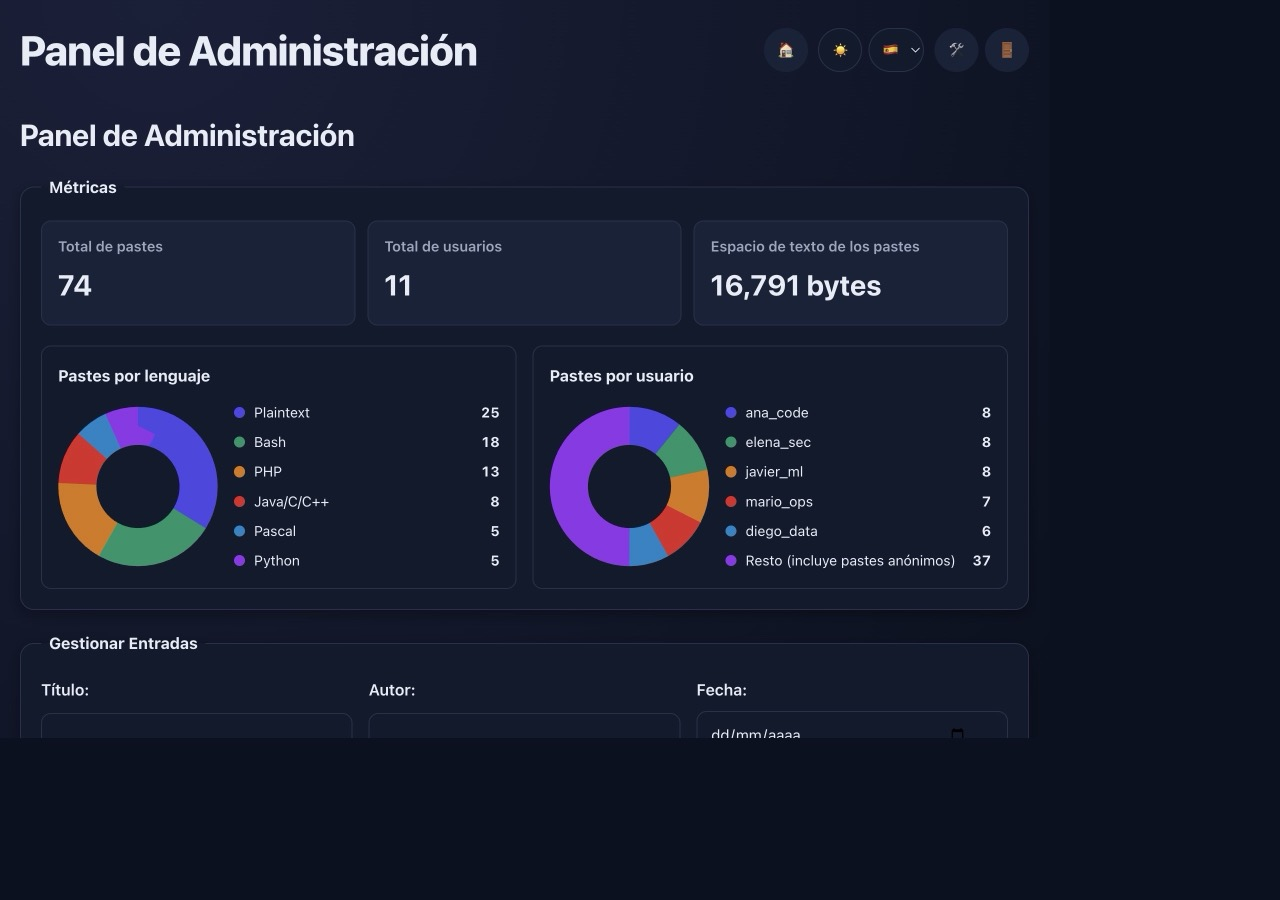
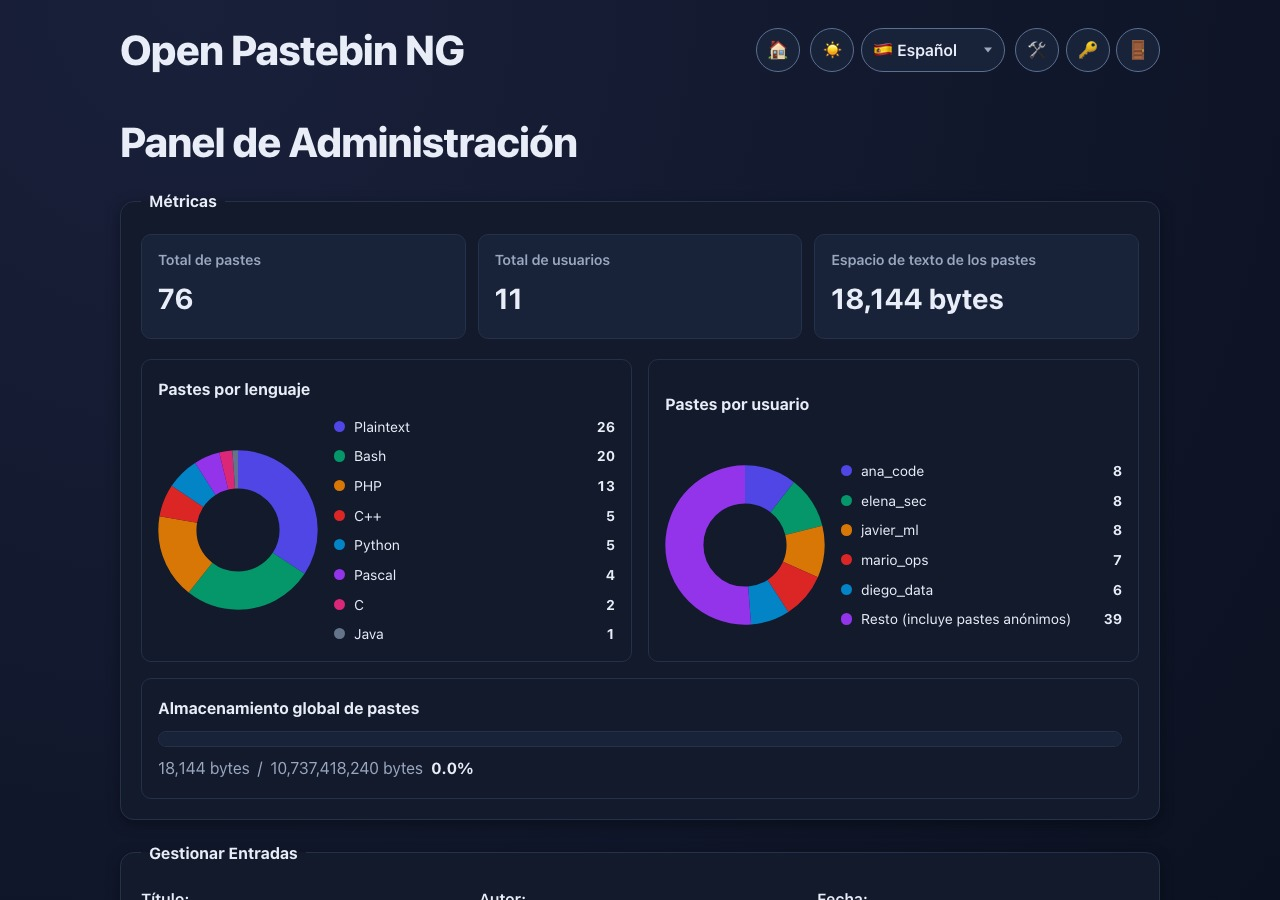
docs(release): publish v1.1.0 documentation and screenshots
Bumps OPNG_VERSION to 1.1.0, marks the changelog as released, documents the GitHub Pages site, refreshes the five interface screenshots and aligns deployment examples with the 1.1.0 artifacts.

diff --git a/src/includes/version.php b/src/includes/version.php
@@ -10,5 +10,5 @@ declare(strict_types=1);
 // version is no longer duplicated in templates.
 
 if (!defined('OPNG_VERSION')) {
-    define('OPNG_VERSION', '1.0.0');
+    define('OPNG_VERSION', '1.1.0');
 }

diff --git a/README.md b/README.md
@@ -5,9 +5,11 @@
 This project is based on **[Open Pastebin](http://sourceforge.net/projects/openpastebin/)**. All you need is a **web server with PHP and MySQL**.
 Open Pastebin NG is **free software** released under the **[GNU GPL license](LICENSE)**.
 
-⚠ **Open Pastebin NG v1.0.0 is the first stable release.** Back up your database and review [`docs/UPGRADING.md`](docs/UPGRADING.md) before upgrading from 0.9.x.
+⚠ **Open Pastebin NG v1.1.0 is the current stable release.** Back up your database and review [`docs/UPGRADING.md`](docs/UPGRADING.md) before upgrading from 1.0.x or 0.9.x.
 
-**Current version:** `1.0.0` (see [`src/includes/version.php`](src/includes/version.php) and [`CHANGELOG.md`](CHANGELOG.md)).
+**Current version:** `1.1.0` (see [`src/includes/version.php`](src/includes/version.php) and [`CHANGELOG.md`](CHANGELOG.md)).
+
+**Project website:** <https://emilio-devesa.github.io/opng/>
 
 ---
 
@@ -24,6 +26,7 @@ Open Pastebin NG is **free software** released under the **[GNU GPL license](LIC
 - ♿ Skip-to-content link, single page headings, flag + language-name options and a touch-accessible search-help disclosure
 - 🛡 CSRF protection for sensitive actions, adaptive login CAPTCHA, guest CAPTCHA and persisted rate limits
 - 🧾 Administrative audit log for destructive actions and backup downloads
+- 🧭 Admin panel with compact action cards, centred confirmation dialogs, a storage progress chart and a collapsible audit log
 - 🧵 Threaded replies with a **History** tab: chronological related entries and an accessible branch graph, with a 32-level depth limit and preserved replies when a parent is deleted
 - 📂 Entries are stored in a **MySQL database**
 
@@ -179,7 +182,7 @@ From the homepage you can:
 - 📝 **Create a new paste**: Enter your text or code, select a language and submit. The create, edit and reply editors show a small remaining-length meter (MB and progress bar) below the textarea.
 - 🔍 **View, edit and reply to a paste**: Click on the topic you want to view. The view page uses tabs — **View** (code), **Edit** (author or admin only), **Reply** (creates a real threaded reply) and **History** (when the entry is part of a thread). Includes syntax highlighting, line numbers (hidden with a notice above 5,000 lines so huge pastes stay light) and one-click copy.
 
-  The **History** tab lists related entries in chronological order with topic, date, author and an *Ancestor*/*Current*/*Descendant* badge, followed by a semantic nested branch graph that works without JavaScript. Threads are capped at 32 levels and 500 rendered entries per page (`Load more` pages with `date, id` cursors); deleting a parent keeps its replies and shows a notice, and deleting a thread root keeps the subtree findable through `root_id`. Reply editors start empty instead of duplicating the parent's text, and the relationship is stored in the database rather than inferred from the `RE: ` prefix.
+  The **History** tab lists related entries in chronological order with topic, date, author and an *Ancestor*/*Current*/*Descendant* badge, followed by a semantic nested branch graph that works without JavaScript. Threads are capped at 32 levels and 500 rendered entries per page (`Load more` pages with `date, id` cursors); deleting a parent keeps its replies and shows a notice, and deleting a thread root keeps the subtree findable through `root_id`. Reply editors start with the parent paste text so you can quote or trim it, and the relationship is stored in the database rather than inferred from the `RE: ` prefix.
 
   Legacy pastes that only look like replies are never linked heuristically. From the repository root, review candidates with `php tools/link_legacy_replies.php --dry-run` and apply a reviewed pair with `php tools/link_legacy_replies.php --apply --reply=REPLY_ID --parent=PARENT_ID`. The tool validates the `RE: <topic>` prefix, dates and depth, recalculates the subtree, refuses already-linked entries and writes each applied link to `audit_log`.
 - 🔑 **Change your password**: Signed-in accounts can open the key icon in the header (`auth/change_password.php`), enter the current password plus the new one twice, and rotate it without an administrator. The action is CSRF-protected and rate-limited, applies the 12–72 byte policy, invalidates pending reset tokens and regenerates the session ID.

diff --git a/docs/WEBSITE.md b/docs/WEBSITE.md
@@ -1,0 +1,71 @@
+# Project website
+
+The public project page is a dependency-free static site published with GitHub
+Pages from the `gh-pages` branch:
+
+<https://emilio-devesa.github.io/opng/>
+
+It is intentionally separate from the PHP application so the repository can be
+served as documentation without exposing `src/`, `tools/`, configuration files
+or the database.
+
+## Branch layout
+
+The `gh-pages` branch contains only the published site:
+
+| Path | Purpose |
+|---|---|
+| `index.html` | Single-page project site |
+| `assets/site.css` | Site styles and dark-mode support |
+| `assets/site.js` | Theme toggle, mobile navigation, copy buttons and sticky-header state |
+| `assets/screenshots/` | Screenshots copied from the repository `screenshots/` directory |
+| `.nojekyll` | Disables Jekyll processing so all static files are served as-is |
+
+There is no build step, no Node dependency and no external CDN request. The
+site works from any static host, not only GitHub Pages.
+
+## Preview locally
+
+From a checkout of the `gh-pages` branch:
+
+```bash
+python3 -m http.server 8080
+```
+
+Then open <http://127.0.0.1:8080/>.
+
+Alternatively, preview the branch directly from the repository checkout:
+
+```bash
+git worktree add /tmp/opng-gh-pages gh-pages
+cd /tmp/opng-gh-pages
+python3 -m http.server 8080
+```
+
+## Publish
+
+Push the branch to GitHub:
+
+```bash
+git push origin gh-pages
+```
+
+Then, in the repository settings, open **Pages** and select:
+
+- **Source:** Deploy from a branch
+- **Branch:** `gh-pages`
+- **Folder:** `/ (root)`
+
+The site becomes available at the URL above. Every later push to `gh-pages`
+redeploys it.
+
+## Update the site
+
+1. Refresh the screenshots in the repository `screenshots/` directory if the
+   interface changed.
+2. Check out `gh-pages`, replace `assets/screenshots/` with the new files and
+   update the copy in `index.html` when features or versions change.
+3. Commit and push `gh-pages`.
+
+Keep the version badge, feature list and quick-start commands aligned with
+`README.md` and `CHANGELOG.md`.

diff --git a/CONTRIBUTING.md b/CONTRIBUTING.md
@@ -96,8 +96,10 @@ Requirements are PHP on a supported patch level, Composer, MySQL or MariaDB, and
 | `tests/` | Regression tests and isolated MySQL integration tests. |
 | `tools/` | CLI development tools, including the sample-data seeder. |
 | `deploy/` | Example deployment configuration, including Nginx. |
+| `docs/` | Installation, upgrade, backup/restore, security and website guides. |
 | `.github/workflows/` | CI lint, static analysis, regression checks, and isolated database jobs. |
-| `screenshots/` | Project screenshots used by the README. |
+| `screenshots/` | Project screenshots used by the README and the GitHub Pages site. |
+| `gh-pages` branch | Static project website (no PHP application files). See [`docs/WEBSITE.md`](docs/WEBSITE.md). |
 
 ### Releasing a version
 
@@ -105,7 +107,8 @@ The application version has a single source of truth: `OPNG_VERSION` in `src/inc
 
 1. Bump `OPNG_VERSION` there.
 2. Update the current version in `README.md` and add the corresponding release section to `CHANGELOG.md`.
-3. Run `composer lint`, `composer phpstan` and the non-database tests listed above.
+3. Refresh the screenshots and the version/features on the `gh-pages` site if the interface or release changed.
+4. Run `composer lint`, `composer phpstan` and the non-database tests listed above.
 
 The footer reads the constant at runtime, so no template needs to be edited.
 

diff --git a/docs/APPLE-CONTAINER.md b/docs/APPLE-CONTAINER.md
@@ -57,7 +57,7 @@ The script:
 2. Creates the `opng-db-data` and `opng-backups` volumes (20 GB each).
 3. Starts `mariadb:11` with the database/user from the environment file. Port
    3306 is **not** published to the host.
-4. Builds `opng-app:1.0.0` from `deploy/apple-container/Containerfile` when it
+4. Builds `opng-app:1.1.0` from `deploy/apple-container/Containerfile` when it
    is missing or `--build` is given.
 5. Starts the app with `--read-only` and tmpfs for `/tmp`, `/run`,
    `/var/lib/nginx` and `/var/lib/php/sessions`, publishing only
@@ -202,15 +202,15 @@ Rollback:
 CI builds `linux/arm64` with Buildx and publishes to GHCR on tags:
 
 ```bash
-container image pull ghcr.io/OWNER/opng:1.0.0
+container image pull ghcr.io/OWNER/opng:1.1.0
 ```
 
 Create a `container image save` archive on an Apple silicon Mac:
 
 ```bash
-container image save ghcr.io/OWNER/opng:1.0.0 opng-app-1.0.0-arm64.tar
-sha256sum opng-app-1.0.0-arm64.tar > opng-app-1.0.0-arm64.tar.sha256
-container image load < opng-app-1.0.0-arm64.tar
+container image save ghcr.io/OWNER/opng:1.1.0 opng-app-1.1.0-arm64.tar
+sha256sum opng-app-1.1.0-arm64.tar > opng-app-1.1.0-arm64.tar.sha256
+container image load < opng-app-1.1.0-arm64.tar
 ```
 
 The release notes attach the classic artifacts and checksums. The container

diff --git a/CHANGELOG.md b/CHANGELOG.md
@@ -1,7 +1,7 @@
 # Open Pastebin NG - Changelog
 ============================
 
-## Version 1.1.0 (unreleased)
+## Version 1.1.0 (2026-11-10)
 
 ### Phase 7 — Code hygiene
 #### 🧹 Strict types and coding standard (HYG-07)
@@ -24,6 +24,11 @@
 - Database actions are arranged as a responsive 2×2 card grid. The audit log is a collapsible `<details>` card, so the page no longer ends with a permanently expanded table.
 - Global paste storage moved into Metrics as an accessible `<progress>` bar with used/total bytes, percentage and the near-quota warning. It sits below the language and user charts and is no longer repeated as plain text above the database actions.
 - Emptying the database now requires both the current password and a server-enforced `confirm_empty` checkbox, before reauthentication and before any deletion.
+
+#### 📚 Documentation and project website
+- Updated the README, backup/restore guide and security guide to describe the admin confirmation dialogs, collapsible audit log and storage progress chart.
+- Added [`docs/WEBSITE.md`](docs/WEBSITE.md) and a static GitHub Pages site on the `gh-pages` branch, including refreshed screenshots.
+- Refreshed the project screenshots used by the README and website.
 
 ## Version 1.0.0 (2026)
 

diff --git a/docs/SECURITY.md b/docs/SECURITY.md
@@ -19,7 +19,7 @@ no bug bounty.
 
 ## Supported versions
 
-Security fixes target the latest `1.0.x` release. Older 0.x/0.9 deployments
+Security fixes target the latest `1.1.x` release. Older 0.x/0.9/1.0 deployments
 should upgrade using [UPGRADING.md](UPGRADING.md).
 
 ## Deployment checklist
